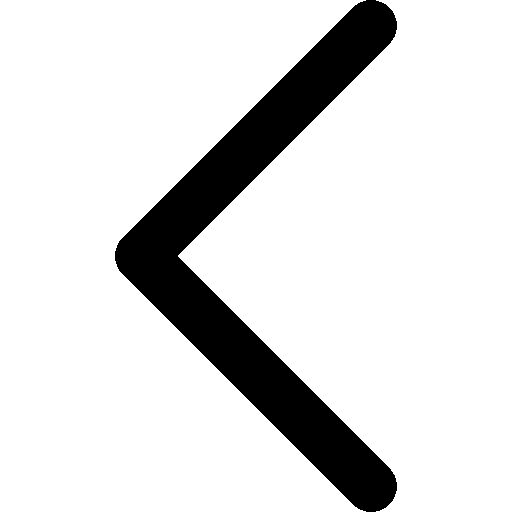
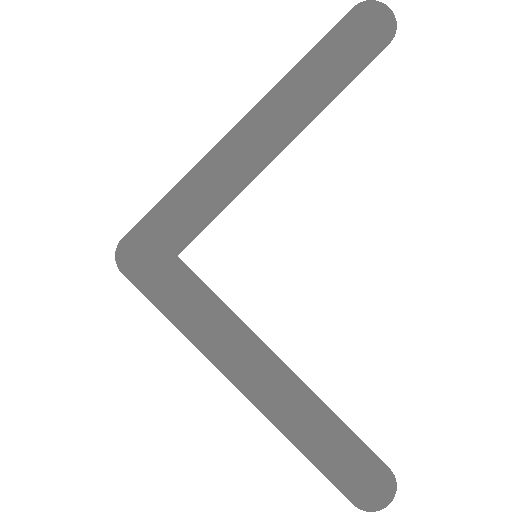
adjust CSS and imgs

Changed region(s): [[0.2188, 0.0, 0.7812, 1.0]]

diff --git a/src/App.css b/src/App.css
@@ -193,7 +193,7 @@ body > #root > div {
   /* outline: none; */
 }
 
-#customers {
+#structures {
   font-family: "Trebuchet MS", Arial, Helvetica, sans-serif;
   border-collapse: collapse;
   width: 90%;
@@ -201,17 +201,17 @@ body > #root > div {
   margin-right: auto;
 }
 
-#customers td, #customers th {
+#structures td, #structures th {
   border: 1px solid #ddd;
   padding: 8px;
   text-align: center;
 }
 
-#customers tr:nth-child(even){background-color: #f2f2f2;}
+#structures tr:nth-child(even){background-color: #f2f2f2;}
 
-#customers tr:hover {background-color: #ddd;}
+#structures tr:hover {background-color: #ddd;}
 
-#customers th {
+#structures th {
   padding-top: 12px;
   padding-bottom: 12px;
   text-align: left;
@@ -238,21 +238,20 @@ body > #root > div {
   margin-top: 50px;
 }
 
-/* The navigation menu links */
-.sidebar a {
-  padding: 6px 8px 6px 16px;
-  text-decoration: none;
-  font-size: 25px;
+.sidebar-block {
+  width: 100%;
+  padding: 0px 6px 4px 15px;
+  font-size: 20px;
   color: #fff;
-  display: block;
+  display: inline-flex;
 }
 
-/* When you mouse over the navigation links, change their color */
-.sidebar a:hover {
-  color: rgb(190, 207, 93);
+.sidebar-input {
+  height: 20px;
+  margin-right: 5px;
+  width: 90px;
 }
 
-/* Style page content */
 .main {
   margin-left: 200px; /* Same as the width of the sidebar */
   padding: 0px 10px;
@@ -267,11 +266,15 @@ body > #root > div {
   vertical-align: top;
   height: 40px;
   width: auto;
+  margin-right: 5px;
   padding-left: 15px;
   padding-right: 15px;
-  border: none;
+  border: solid;
+  border-width: 1px;
+  border-color: #818181;
   outline: none;
   background-color: rgb(216, 230, 240);
+  color: #818181;
   cursor: pointer;
   font-size: 35px;
 }
@@ -281,29 +284,94 @@ body > #root > div {
 }
 
 .previous-page {
-  height: 28px;
-  width: 28px;
   background: url(./imgs/page_previous.png);
-  background-size: 28px 28px;
-  background-repeat: no-repeat;
 }
 
 .next-page {
+  background: url(./imgs/page_next.png);
+}
+
+.next-page, .previous-page {
   height: 28px;
   width: 28px;
-  background: url(./imgs/page_next.png);
   background-size: 28px 28px;
   background-repeat: no-repeat;
 }
 
-.small-arrow {
-  height: 14px;
-  width: 14px;
-  background-size: 14px 14px;
+.previous-page-white {
+  margin-left: 10px;
+  margin-right: 3px;
+  background: url(./imgs/page_previous_white.png);
+}
+
+.next-page-white {
+  margin-right: 10px;
+  margin-left: 3px;
+  background: url(./imgs/page_next_white.png);
+}
+
+.next-page-white, .previous-page-white {
+  height: 25px;
+  width: 25px;
+  background-size: 25px 25px;
+  background-repeat: no-repeat;
 }
 
 .pagesizer {
   display: inline-flex;
+  width: 100%;
+  padding: 0px 6px 4px 15px;
+}
+
+.pagesizer button, .search-block button, .pagesizer input, .angle-block input, .sequence-block input {
+  margin-right: 5px;
+  width: 40px;
+  font-size: 25px;
+  color: #fff;
+  text-align: center;
+  background-color: inherit;
+  border: solid;
+  border-width: 1px;
+  border-color: #fff;
+  outline: none;
+}
+
+.pagesizer button {
+  height: 35px;
+  padding: 0px 0px 0px 0px;
+}
+
+.search-block button {
+  margin-top: 10px;
+  margin-left: 30px;
+  background-color: rgb(59, 82, 124); 
+  width: 120px;
+}
+
+.angle-block input, .sequence-block input {
+  width: 80px;
+  height: 30px;
+  font-size: 18px;
+  color: #fff;
+}
+
+.sequence-block input {
+  padding-left: 2px;
+  text-align: left;
+  width: 220px;
+}
+
+.sidebar-block ::placeholder { /* Chrome, Firefox, Opera, Safari 10.1+ */
+  color: #fff;
+  opacity: 0.7; /* Firefox */
+}
+
+.sidebar-block :-ms-input-placeholder { /* Internet Explorer 10-11 */
+  color: #fff;
+}
+
+.sidebar-block ::-ms-input-placeholder { /* Microsoft Edge */
+  color: #fff;
 }
 
 /* Chrome, Safari, Edge, Opera */
